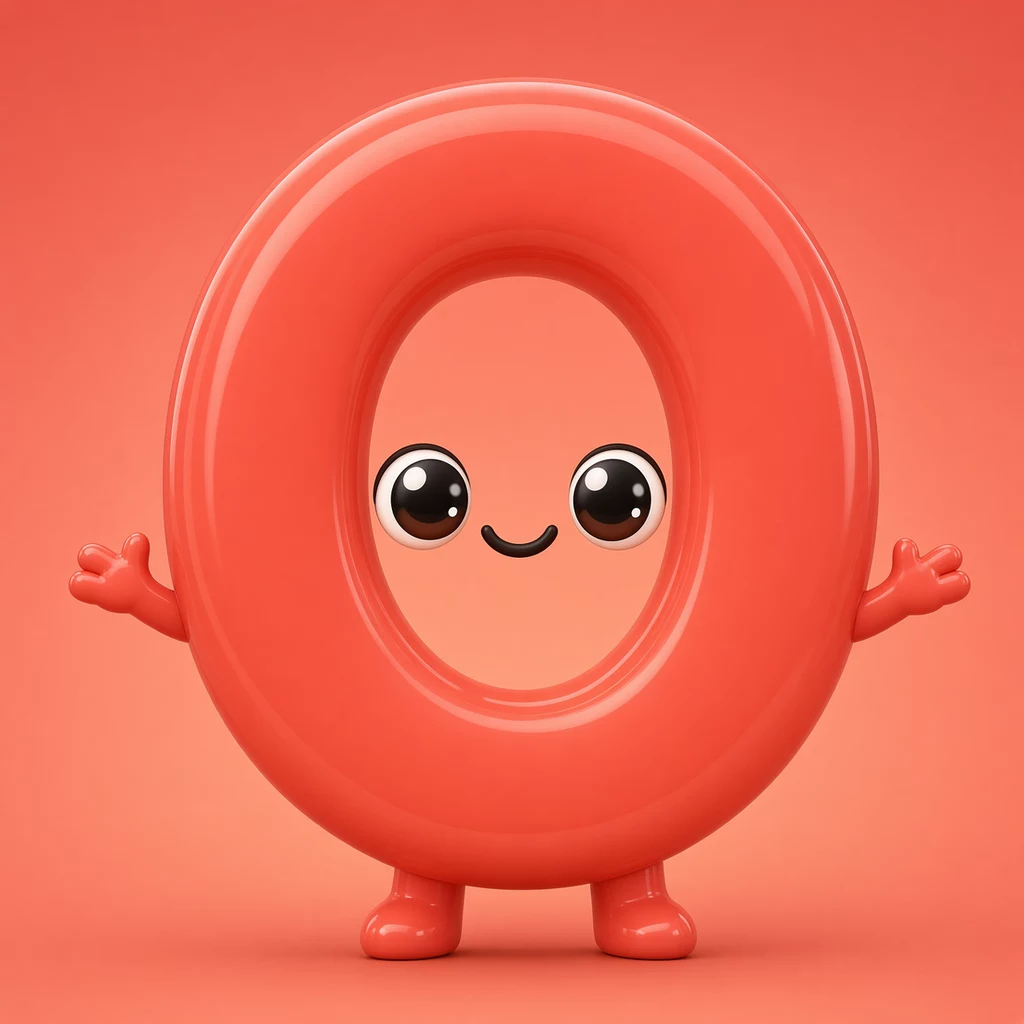
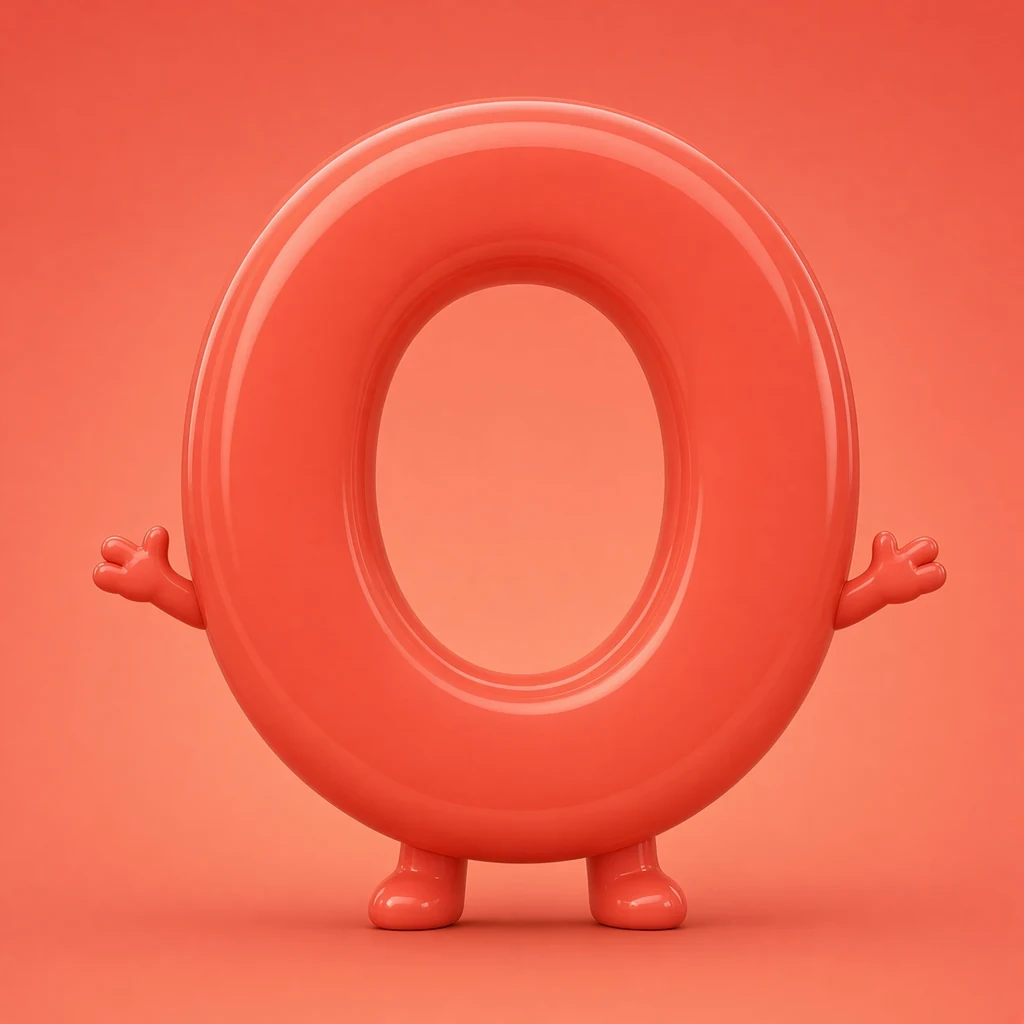
v0.122: Meet K–O with Hi I'm Big X.
O still remade: face on the ring, hole empty.

diff --git a/src/components/alphabet/MeetBuddy.tsx b/src/components/alphabet/MeetBuddy.tsx
@@ -9,8 +9,8 @@ import { speak, stopSpeech, primeAudioFromGesture } from "@/lib/speak";
 import { APP_VERSION } from "@/lib/version";
 import { cn } from "@/lib/utils";
 
-/** Meet A–J: cartoon letter voice is in the clip. No teacher overlay. */
-const MEET_SELF_VOICE = new Set(["A", "B", "C", "D", "E", "F", "G", "H", "I", "J"]);
+/** Meet A–O: cartoon letter voice is in the clip. No teacher overlay. */
+const MEET_SELF_VOICE = new Set("ABCDEFGHIJKLMNO".split(""));
 
 /**
  * 10s 480p "meet the buddy" — tap to play. Original still stays as poster.

diff --git a/src/data/alphabet.ts b/src/data/alphabet.ts
@@ -545,7 +545,7 @@ export function letterHeroPath(letter: string): string {
 }
 
 /** 10s local bounce, or Imagine clip when we have one. */
-const IMAGINE_BUDDY = new Set(["a", "b", "c", "d", "e", "f", "g", "h", "i", "j", "t"]);
+const IMAGINE_BUDDY = new Set("abcdefghijtklmno".split(""));
 
 export function letterBuddyVideoPath(letter: string): string {
   const l = letter.toLowerCase();

diff --git a/src/lib/version.ts b/src/lib/version.ts
@@ -12,7 +12,7 @@
  * Grok Publish: still remind at v0.070, v0.080… so the public link can match.
  */
 
-export const APP_VERSION = "0.121";
+export const APP_VERSION = "0.122";
 export const APP_VERSION_LABEL = `v${APP_VERSION}`;
 export const APP_SLUG = "abc-adventure";
 export const APP_DISPLAY_NAME = "ABC Adventure";

diff --git a/SESSION.md b/SESSION.md
@@ -1,6 +1,6 @@
 # Session compact — ABC Adventure
 
-**Version:** v0.121  
+**Version:** v0.122  
 **GitHub:** sh4gu4dummy-arch/abc-adventure `main`  
 **User tests in Grok live preview**, not APK, unless they ask.
 
@@ -30,6 +30,9 @@ Color-in the letter, not a handwriting test. Crayon clips to the glyph. ~26% of 
 | H heart | Crayon with two points | One-tip crayon; look-at-the-clip QA (not a tip-count law) |
 
 A–Z word videos exist. J–Z remade to locked sentences; A–I older unless later patched (G, H, fish, frog, etc.).
+
+## Meet K–O (v0.122)
+Big-letter line. K coral, L lime, M cyan, N orange, O coral-red. O thumbnail remade: face on the ring, hole empty (same as D/G).
 
 ## Meet J (v0.121)
 Line from J on: **“Hi I’m Big J, Big J, Big J.”** Don’t remake A–I. Purple like home.
@@ -76,7 +79,7 @@ Old take `.mp4`s removed from `public/art-archive` so Publish doesn’t pack the
 Stills stay for Settings → Art archive. `public/review` not touched.
 
 ## Meet A / B (v0.107)
-6s dance. **One voice** — theirs, in the clip. Teacher overlay off. Don’t stack extra TTS. Face on the front only. From **J** on: “Hi I’m Big X, Big X, Big X.” K–Z still bounce puppets until named. Don’t batch 26. Don’t remake A–I to the Big line unless asked.
+6s dance. **One voice** — theirs, in the clip. Teacher overlay off. Don’t stack extra TTS. Face on the front only. From **J** on: “Hi I’m Big X, Big X, Big X.” P–Z still bounce puppets until named. Don’t batch 26. Don’t remake A–I to the Big line unless asked.
 `scripts/ship-letter-videos.py` PACKS → t2i → i2v (mouths closed + foley, no speech) → encode **keep audio** → `nativeAudio: true` → **5-frame QA** (`scripts/qa-word-frames.py`) → poster=frame1 → TTS append-only `speech-map.ts`.  
 Stop on Imagine fail; don’t kneejerk. Look at the clip. If it’s obviously wrong, redo — don’t write a crayon-tip law.
 

diff --git a/PROJECT.md b/PROJECT.md
@@ -113,7 +113,7 @@ npm run build:apk      # only when asked
 
 ## Versioning & downloads
 
-- **Current version:** `0.121` (`v0.121`) — stored in `VERSION` and `src/lib/version.ts` (keep in sync).
+- **Current version:** `0.122` (`v0.122`) — stored in `VERSION` and `src/lib/version.ts` (keep in sync).
 
 ## GitHub + Grok Publish cadence
 
